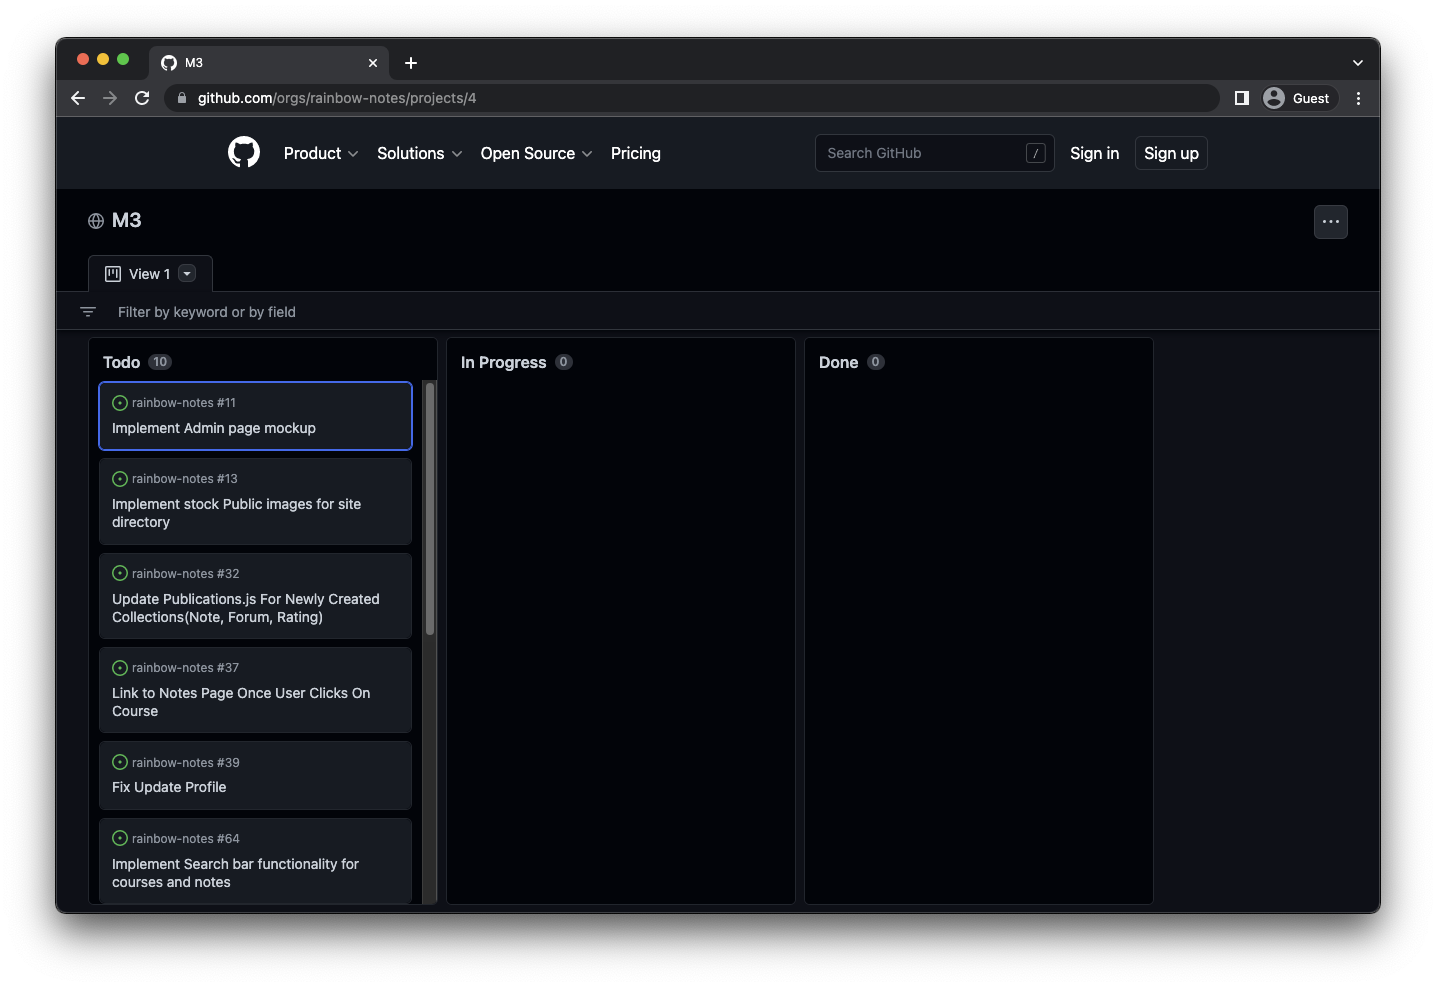
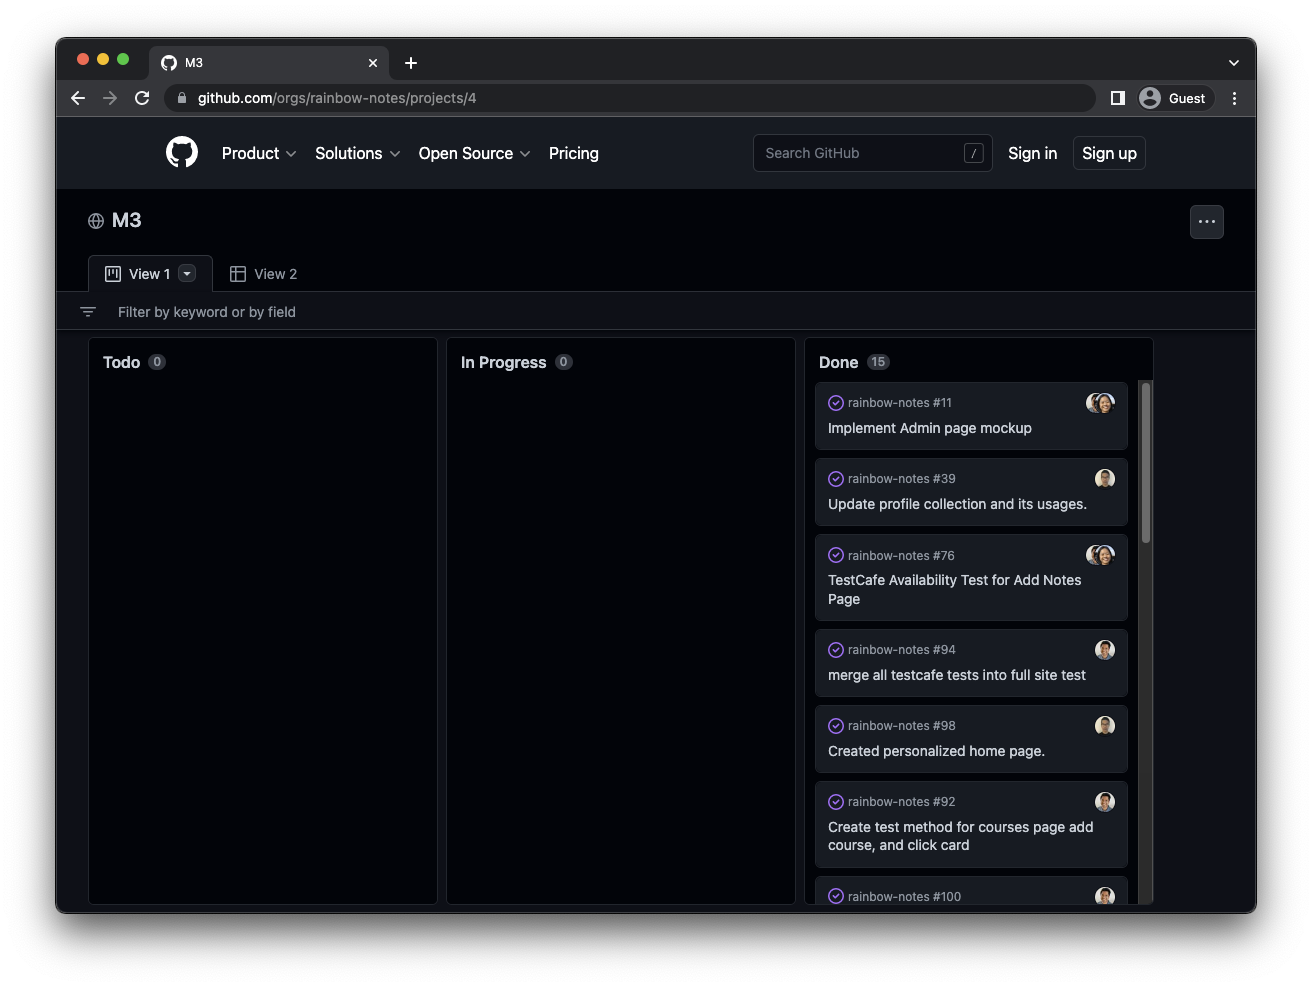
Finished requirements for Milestone 3.

diff --git a/index.md b/index.md
@@ -8,6 +8,7 @@
 * [Developer Guide](#developer-guide)
 * [Continuous Integration](#continuous-integration)
 * [Development History](#development-history)
+* [Community Feedback](#community-feedback)
 * [Team Contract](#team-contract)
 * [Team](#team)
 
@@ -18,6 +19,7 @@ The goal of Rainbow Notes is to provide students a place where they can meet or 
 * [Meteor](https://www.meteor.com/) for Javascript-based implementation of client and server code.
 * [React](https://reactjs.org/) for component-based UI implementation and routing.
 * [React Bootstrap](https://react-bootstrap.github.io/) CSS Framework for UI design.
+* [Uniforms](https://uniforms.tools) for React based form design and display.
 
 It also provides code that implements design concepts including but not limited to the following:
 
@@ -28,6 +30,7 @@ It also provides code that implements design concepts including but not limited 
 * Use of indexes to enforce uniqueness of certain fields in the collections, enabling them to serve as primary keys.
 * Authentication using the built-in Meteor accounts package along with Sign Up and Sign In pages.
 * Authorization examples: certain pages are public (Landing and Courses), while other pages require login (AddNote, EditProfile).
+* Use of Meteor Assets to initialize the database (helpful when initialization exceeds settings file size limits).
 
 ## Deployment
 
@@ -39,20 +42,26 @@ This section provides a walkthrough of the Rainbow Notes user interface and its 
 
 ### Landing Page
 
-The landing page is presented to users when they visit the top-level URL to the site.
+The landing page is presented to users when they visit the top-level URL of the site.
 
 ![](images/landing-1.png)
 ![](images/landing-2.png)
 
 ### Sign In and Sign Up Pages
 
-Click on the "Login" button in the upper right corner of the navbar, then select "Sign in" to go to the following page and login. You must have been previously registered with the system to use this option:
+By clicking on the login button in the upper right corner then selecting sign in, you can go to the following page and login. You must be already registered with the system to use this option.
 
 ![](images/sign-in.png)
 
-Alternatively, you can select "Sign up" to go to the following page and register as a new user:
+Alternatively, you can select sign up instead which will go to the following page where you can register as a new user.
 
 ![](images/sign-up.png)
+
+### Home Page
+
+Once signed in, you will be redirected to a personalized home page which includes recommended notes based on your course interests. Additionally, you can also see and delete any notes that you have posted.
+
+![](images/home.png)
 
 ### Courses Page 
 
@@ -74,7 +83,7 @@ The add course page allows you to create courses which aren't already listed. It
 
 ### Notes Page
 
-The notes page provides you with a list of all available notes and an option to add notes as well.
+The notes page provides you with a list of all available notes and the ability to search by title. There is also an option to add notes as well.
 
 ![](images/notes.png)
 
@@ -92,7 +101,7 @@ The add notes page allows you to upload images of your course notes in addition 
 
 ### Profile Page
 
-The profile pages prompts you for a first and last name, email, biography, in addition to your courses taken and course interests. The Profile page also allows for editing of a profile.
+The profile pages prompts you for a first and last name, email, biography, and your courses interests. The profile page also allows for editing of your profile.
 
 ![](images/profile.png)
 
@@ -110,7 +119,7 @@ This section provides information of interest to Meteor developers wishing to us
 
 First, [install Meteor](https://www.meteor.com/install).
 
-Second, visit the [Rainbow Notes application github page](https://github.com/rainbow-notes/rainbow-notes), and click the "Use this template" button to create your own repository initialized with a copy of this application. Alternatively, you can download the sources as a zip file or make a fork of the repo.  However you do it, download a copy of the repo to your local computer.
+Second, visit the [Rainbow Notes application github page](https://github.com/rainbow-notes/rainbow-notes), and click the Code button to create your own repository with a copy of the application. Alternatively, you can download the sources as a zip file or make a fork of the repo.  However you do it, download a copy of the repo to your local computer.
 
 Third, cd into the rainbow-notes/app directory and install libraries with:
 
@@ -122,9 +131,72 @@ Fourth, run the system with:
 
 ```
 $ meteor npm run start
+
+> meteor-application-template-react@ start *path to the app directory*
+> meteor --no-release-check --exclude-archs web.browser.legacy,web.cordova --settings ../config/settings.development.json
+
+[[[[[ ~/Desktop/rainbow-notes/app ]]]]]       
+
+=> Started proxy.                             
+=> Started HMR server.                        
+Browserslist: caniuse-lite is outdated. Please run:
+  npx browserslist@latest --update-db
+  Why you should do it regularly: https://github.com/browserslist/browserslist#browsers-data-updating
+Browserslist: caniuse-lite is outdated. Please run:
+  npx browserslist@latest --update-db
+  Why you should do it regularly: https://github.com/browserslist/browserslist#browsers-data-updating
+=> Started MongoDB.                           
+I20221213-19:46:20.580(-10)? Creating the default profiles
+I20221213-19:46:20.606(-10)?   Defining profile admin@foo.com
+I20221213-19:46:20.803(-10)?   Defining profile user@foo.com
+I20221213-19:46:20.899(-10)?   Defining profile johnson@hawaii.edu
+I20221213-19:46:21.003(-10)?   Defining profile henric@hawaii.edu
+I20221213-19:46:21.102(-10)?   Defining profile cmoore@hawaii.edu
+I20221213-19:46:21.197(-10)?   Defining profile achriste@hawaii.edu
+I20221213-19:46:21.289(-10)?   Defining profile leighj@hawaii.edu
+I20221213-19:46:21.386(-10)?   Defining profile sin8@hawaii.edu
+I20221213-19:46:21.497(-10)? Creating default courses.
+I20221213-19:46:21.498(-10)?   Adding: ICS 111
+I20221213-19:46:21.628(-10)?   Adding: ICS 211
+I20221213-19:46:21.631(-10)?   Adding: ICS 241
+I20221213-19:46:21.634(-10)?   Adding: ICS 314
+I20221213-19:46:21.642(-10)? Creating default notes.
+I20221213-19:46:21.643(-10)?   Adding: Circuit Notes Week 4
+I20221213-19:46:21.767(-10)?   Adding: Circuit Notes Week 5
+I20221213-19:46:21.770(-10)?   Adding: Valence and Conduction Band Week 3
+I20221213-19:46:21.774(-10)?   Adding: P type Vs N type
+I20221213-19:46:21.778(-10)?   Adding: Zener Diode Circuit
+I20221213-19:46:21.782(-10)? Loading courses from private/courses.json
+I20221213-19:46:21.835(-10)? Loading notes from private/notes.json
+I20221213-19:46:23.737(-10)? Monti APM: completed instrumenting the app
+=> Started your app.
+
+=> App running at: http://localhost:3000/
 ```
 
 If all goes well, the application will appear at [http://localhost:3000](http://localhost:3000).
+
+### Initialization
+
+The [config](https://github.com/rainbow-notes/rainbow-notes/tree/main/config) directory is intended to hold settings files. The repository contains one file: [config/settings.development.json](https://github.com/rainbow-notes/rainbow-notes/blob/main/config/settings.development.json).
+
+This file contains default definitions for Profiles, Notes, and Courses and the relationships between them.
+
+The settings.development.json file contains two fields called "loadNotesFile" and "loadCoursesFile". When set to true, then the data in the files app/private/notes.json and app/private/courses.json will also be loaded. The code to do this illustrates how to initialize a system when the initial data exceeds the size limitations for the settings file.
+
+### Quality Assurance - ESLint
+
+Rainbow Notes includes a [.eslintrc.js](https://github.com/rainbow-notes/rainbow-notes/blob/main/app/.eslintrc.js) file to define the coding style adhered to in this application. You can invoke ESLint from the command line which will show the following when there are no errors.
+
+```
+$ meteor npm run lint
+
+> meteor-application-template-react@ lint *path to the app directory*
+> eslint --quiet --ext .jsx --ext .js ./imports && eslint --quiet --ext .js ./tests
+
+$
+```
+ESLint should run without generating any errors. It’s significantly easier to do development with ESLint integrated directly into your IDE (such as IntelliJ).
 
 ## Continuous Integration
 
@@ -132,7 +204,7 @@ If all goes well, the application will appear at [http://localhost:3000](http://
 
 Rainbow Notes uses [GitHub Actions](https://docs.github.com/en/free-pro-team@latest/actions) to automatically run ESLint and TestCafe each time a commit is made to the default branch.  You can see the results of all recent "workflows" at [https://github.com/rainbow-notes/rainbow-notes/actions](https://github.com/rainbow-notes/rainbow-notes/actions).
 
-The workflow definition file is quite simple and is located at
+The workflow definition file is located at
 [.github/workflows/ci.yml](https://github.com/rainbow-notes/rainbow-notes/blob/main/.github/workflows/ci.yml).
 
 ## Development History
@@ -151,7 +223,7 @@ The following sections document the development history of Rainbow Notes.
 
 ### Milestone 1
 
-The goal of Milestone 1 was to create a set of React page mockups. The pages which were implemented are:
+The goal of Milestone 1 was to create a set of React page mockups. The pages which were implemented are as follows:
 
 * Landing Page
 * Sign In Page
@@ -179,17 +251,65 @@ The goal of Milestone 2 was to improve the functionality and design of our appli
   * Notes collection
   * Ratings collection
 
-Milestone 2 was be managed using [Rainbow Notes GitHub Project Board M2](https://github.com/orgs/rainbow-notes/projects/3).
+Milestone 2 was managed using [Rainbow Notes GitHub Project Board M2](https://github.com/orgs/rainbow-notes/projects/3).
 
 ![](images/m2.png)
 
 ## Milestone 3
 
-The goal of Milestone 3 is to improve the functionality of profiles and personalization of the website for each user.
+The goal of Milestone 3 was to improve the functionality of profiles and personalization of the website for each user. Improvements include:
 
-Milestone 3 will be managed using [Rainbow Notes GitHub Project Board M2](https://github.com/orgs/rainbow-notes/projects/3).
+* New pages:
+  * Personalized Home Page
+  * Admin Profiles Page
+* New MongoDB collection:
+  * Profiles collection
+* New Admin role:
+  * Able to manage the application and remove any course, note, or profile.
+
+Milestone 3 was managed using [Rainbow Notes GitHub Project Board M3](https://github.com/orgs/rainbow-notes/projects/4).
 
 ![](images/m3.png)
+
+## Community Feedback
+
+Rainbow Notes is an application designed for our community and so we've asked some members on what they liked as well as some improvements. Here are some of their thoughts:
+
+Treyton L.
+* Likes: Idea of the application, ratings, ability to delete notes
+* Improvements: Maybe some folders for the notes, able to delete notes for the user (what if the user took a bad note or doesn't want it anymore?)
+* Rating: 9/10
+
+Jericho M.
+* Likes: Home page and pictures look nice, design is easy to follow, easy to delete and add notes
+* Improvements: Don’t need two “edit profile” buttons on the initial home page, ability to edit notes, leave detailed review instead of just star rating, bookmark notes for personal ease of access, add an “only text” option for notes/don’t make pictures required for every note, allow adding multiple course interests at once (I think I broke mine when I tried because I'm on an iPad)
+* Rating: 7/10
+
+Tammy N.
+* Likes: Straightforward UI, search function 👌, user-centered design
+* Improvements: add attachments instead of just links, implement add new course option in the add notes section to make it simpler, website name that doesn’t look like it’s leaking my IP address
+* Rating: 8/10
+
+Tim P.
+* Likes: Simplicity of website design (not overly complicated for no reason). Ability to self-add courses that aren’t already listed. Ability to rate other people’s notes.
+* Improvements: There are two “edit profile” buttons in the home page. Speaking of profiles, there is an option to add a biography and profile picture, however there doesn’t seem to be any way of checking other people’s profiles, so will anybody ever actually see my bio/picture? Additionally, on login there does not seem to be any “forgot password” option yet.
+* Rating: 8/10
+
+Jason K.
+* Likes: The core concept is great and it would definitely be useful for many students to have consolidated notes specifically for UH classes.  
+* Improvements: Make the Home, Courses, Notes and Profiles buttons contrast the background color more to make them more visible. Also make the buttons bigger. This may be the size of my screen but arrange the How to Get Started page so either all the steps are aligned horizontally or vertically
+* Rating: 6.9/10
+
+### Further Enhancements
+As a result of the community feedback and our own reflections, we realized that there are many improvements that can still be implemented. Some examples include:
+
+* More user-friendly color scheme that has higher contrast
+* Implement https and create a custom domain name
+* Ability to verify emails and to reset passwords
+* Profiles List page where you can see other users and the notes that they have posted
+* Favorite another user or a certain note for easy access
+* Ability to edit notes, use file attachments rather than image links, and to comment on a note
+* Sorting notes by rating or other filters
 
 ## Team Contract
 
